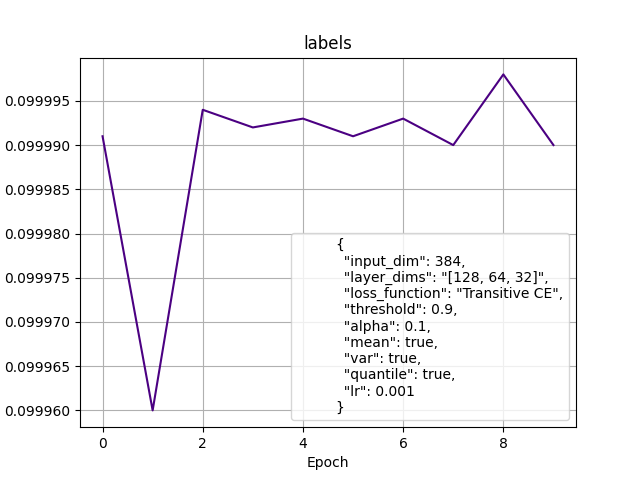
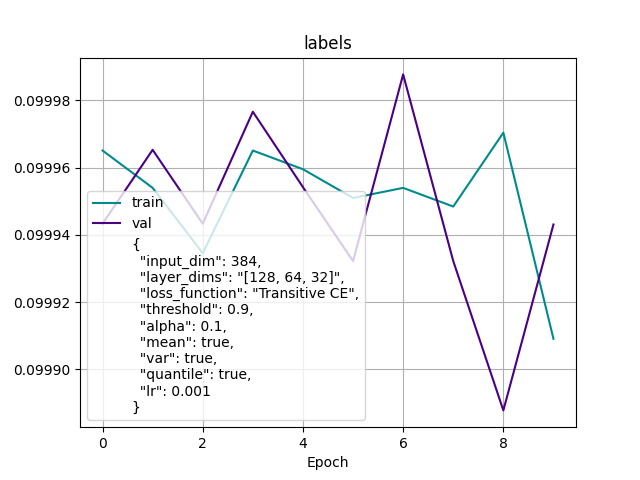
split to validation and training sets

diff --git a/llm_blockmerger/learn/mlp.py b/llm_blockmerger/learn/mlp.py
@@ -33,43 +33,59 @@ class MLP(nn.Module):
     def forward(self, x):
         return self.network(x)
 
+def eval_feed(model, loss_function, loader):
+    model.eval()
+    with torch.no_grad():
+        loss = labels = var = loss_sim = n = 0
+        for a, b, c in loader:
+            a, b, c = a.to(model.device), b.to(model.device), c.to(model.device)
+            ao, bo, co = model(a), model(b), model(c)
+            l, lab, v, lsim = loss_function(ao, bo, co)
+            loss += l.item(); labels += lab.item(); var += v.item(); loss_sim += lsim.item(); n += 1
 
-def train(model, train_loader, optimizer, loss_function, epochs=10, verbose=True):
+    return loss/n, labels/n, var/n, loss_sim/n
+
+def train_feed(model, optimizer, loss_function, loader):
+    model.train()
+    loss = labels = var = loss_sim = n = 0
+    for a, b, c in loader:
+        a, b, c = a.to(model.device), b.to(model.device), c.to(model.device)
+        optimizer.zero_grad()
+        ao, bo, co = model(a), model(b), model(c)
+        l, lab, v, lsim = loss_function(ao, bo, co)
+        assert not torch.isnan(l).any(), f"Loss is NaN"
+        l.backward(); optimizer.step()
+        loss += l.item(); labels += lab.item(); var += v.item(); loss_sim += lsim.item(); n += 1
+    return loss / n, labels / n, var / n, loss_sim / n
+
+def train(model, train_loader, val_loader, optimizer, loss_function, epochs=10, verbose=True):
     model.train()
     metadata = model.metadata | loss_function.metadata | {"lr": optimizer.param_groups[0]["lr"]}
-    results = {"loss": [], "labels": [], "var": [], "loss_sim": [], "time":[], "metadata": metadata}
+    results = {
+        "metadata": metadata,
+        "time": [],
+        "train": {"loss": [], "labels": [], "var": [], "loss_sim": []},
+        "val":   {"loss": [], "labels": [], "var": [], "loss_sim": []}
+    }
+
     for epoch in range(epochs):
-        start_time = time.time()
-        loss = labels =  var = loss_sim = num_batches = 0
+        start = time.time()
 
-        for batch in train_loader:
-            a, b, c = batch
-            a, b, c = a.to(model.device), b.to(model.device), c.to(model.device)
+        loss, labels, var, loss_sim = train_feed(model, optimizer, loss_function, train_loader)
+        for key, val in zip(["loss", "labels", "var", "loss_sim"], [loss, labels, var, loss_sim]):
+            results["train"][key].append(val)
 
-            optimizer.zero_grad()
-            a_out, b_out, c_out = model(a), model(b), model(c)
+        val_loss, val_labels, val_var, val_sim = eval_feed(model, loss_function, val_loader)
+        for key, val in zip(["loss", "labels", "var", "loss_sim"], [val_loss, val_labels, val_var, val_sim]):
+            results["val"][key].append(val)
 
-            batch_loss, batch_labels, batch_var, batch_loss_sim = loss_function(a_out, b_out, c_out)
-            assert not torch.isnan(batch_loss).any(), f"Loss is NaN at epoch {epoch + 1}"
-            batch_loss.backward()
-            optimizer.step()
-
-            loss += batch_loss.item()
-            labels += batch_labels.item()
-            var += batch_var.item()
-            loss_sim += batch_loss_sim.item()
-            num_batches += 1
-        results["loss"].append(loss / num_batches)
-        results["labels"].append(labels / num_batches)
-        results["var"].append(var / num_batches)
-        results["loss_sim"].append(loss_sim / num_batches)
-        results["time"].append(time.time() - start_time)
+        results["time"].append(time.time() - start)
         if verbose:
-            print(f'Epoch [{epoch + 1}/{epochs}]', end='\t')
-            print(f'Loss: {results["loss"][-1]: .3f}', end='\t')
-            print(f'Sim Loss: {results["loss_sim"][-1]: .3f}', end='\t')
-            print(f'Labels: {results["labels"][-1]: .3f}', end='\t')
-            print(f'Variance: {results["var"][-1]: .3f}', end='\n')
+            print(f"Epoch [{epoch+1}/{epochs}]\t"
+                  f"Train Loss: {loss:.3f}\t"
+                  f"Sim: {loss_sim:.3f}\t"
+                  f"Labels: {labels:.3f}\t"
+                  f"Var: {var:.3f}")
 
     return results
 

diff --git a/llm_blockmerger/store/vectordb.py b/llm_blockmerger/store/vectordb.py
@@ -19,20 +19,18 @@ class BlockMergerVectorDB(Dataset):
                  workspace='./databases/',
                  feature_size=384,
                  dataset_dtype=torch.float32,
-                 empty=False,
-                 training_samples=None):
+                 empty=False):
         assert databasetype in [HNSWVectorDB, InMemoryExactNNVectorDB], "Invalid dbtype"
 
         self.databasetype = databasetype
         self.workspace = workspace
         self.feature_size = feature_size
         self.dataset_dtype = dataset_dtype
-        self.training_samples = training_samples
         self.BlockMergerDoc = make_doc(feature_size)
 
         if empty: self._initialize_empty_db()
         else: self._restore_db()
-        if self.training_samples is None: self.triplets = generate_triplets(self.get_num_docs())
+        self.triplets = generate_triplets(self.get_num_docs())
 
     def _initialize_empty_db(self):
         empty_docs(workspace=self.workspace)
@@ -60,7 +58,7 @@ class BlockMergerVectorDB(Dataset):
             for i in range(len(embeddings))
         ]
         self.db.index(sapce='cosine', inputs=DocList[self.BlockMergerDoc](doc_list))
-        if self.training_samples is None: self.triplets = generate_triplets(self.get_num_docs())
+        self.triplets = generate_triplets(self.get_num_docs())
         self.db.persist()
 
     def read(self, embedding, limit=10):
@@ -78,14 +76,12 @@ class BlockMergerVectorDB(Dataset):
         return self.db.num_docs()['num_docs']
 
     def __len__(self):
-        return len(self.triplets) if self.training_samples is None else self.training_samples
+        return len(self.triplets)
 
     def __getitem__(self, index):
         if index >= self.__len__(): raise IndexError(f'Index {index} out of range')
 
-        indices = self.triplets[index] if self.training_samples is None \
-            else random.sample(range(0, self.get_num_docs()), 3)
-        docs = [self.db.get_by_id(str(idx)) for idx in indices]
+        docs = [self.db.get_by_id(str(idx)) for idx in self.triplets[index]]
         return [doc.embedding for doc in docs]
 
 def main():

diff --git a/tests/integration_learning.py b/tests/integration_learning.py
@@ -2,24 +2,29 @@ import os
 os.chdir("../")
 
 import torch.optim as optim
-from torch.utils.data import DataLoader
+from torch.utils.data import DataLoader, random_split
 from llm_blockmerger.store import BlockMergerVectorDB, HNSWVectorDB
 from llm_blockmerger.learn import MLP, train, TransitiveCrossEntropyLoss, visualize_results
 
 def main():
-    samples = 1000
     loss_function = TransitiveCrossEntropyLoss()
-    layer_dims, lr, batch_size, epochs = [128, 64, 32], 0.001, 1000, 120
+    layer_dims, lr, batch_size, epochs = [128, 64, 32], 0.001, 100, 120
 
-    vector_db = BlockMergerVectorDB(databasetype=HNSWVectorDB, empty=False, training_samples=samples)
+    vector_db = BlockMergerVectorDB(databasetype=HNSWVectorDB, empty=False)
     print(f'Initialized vector database with {vector_db.get_num_docs()} entries and {len(vector_db)} training samples...')
 
     model = MLP(input_dim=vector_db.feature_size, layer_dims=layer_dims)
     optimizer = optim.Adam(model.parameters(), lr=lr)
     print('Initialized MLP model...')
 
-    train_loader = DataLoader(vector_db, batch_size=batch_size, shuffle=False)
-    results = train(model, train_loader, optimizer, loss_function=loss_function, epochs=epochs)
+
+    train_size = int(0.8 * len(vector_db))
+    val_size = len(vector_db) - train_size
+    train_dataset, val_dataset = random_split(vector_db, [train_size, val_size])
+    train_loader = DataLoader(train_dataset, batch_size=batch_size, shuffle=True)
+    val_loader = DataLoader(val_dataset, batch_size=batch_size, shuffle=False)
+
+    results = train(model, train_loader, val_loader, optimizer, loss_function=loss_function, epochs=epochs)
     visualize_results(results, path='./plots/')
 
 if __name__ == '__main__':

diff --git a/llm_blockmerger/learn/visualization.py b/llm_blockmerger/learn/visualization.py
@@ -2,16 +2,21 @@ import matplotlib.pyplot as plt
 import json
 
 def visualize_results(results, path='../../plots/'):
-    label = json.dumps(results["metadata"], indent=2)
-    for key, values in results.items():
-        if key == "metadata": continue
+    metadata = json.dumps(results["metadata"], indent=2)
+    keys = ["loss", "labels", "var", "loss_sim"]
+
+    for key in keys:
+        train_values = results["train"][key]
+        val_values = results["val"][key]
+
         plt.figure()
-        plt.plot(values, label=label, color="indigo")
+        plt.plot(train_values, label="train", color='darkcyan')
+        plt.plot(val_values, label="val", color='indigo')
+        plt.plot([], label=metadata)
         plt.title(key)
         plt.xlabel('Epoch')
         plt.grid(True)
-        legend = plt.legend()
-        for handle in legend.legendHandles:
-            handle.set_visible(False)
+        legend = plt.legend(fontsize=10)
+        legend.legendHandles[2].set_visible(False)
         plt.savefig(path + key + '.png')
         plt.close()
